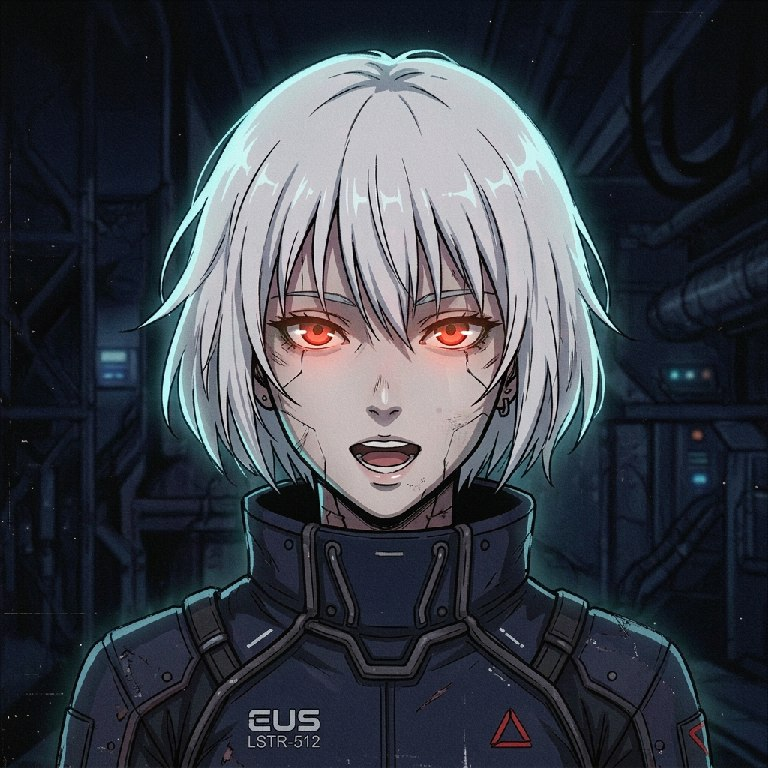
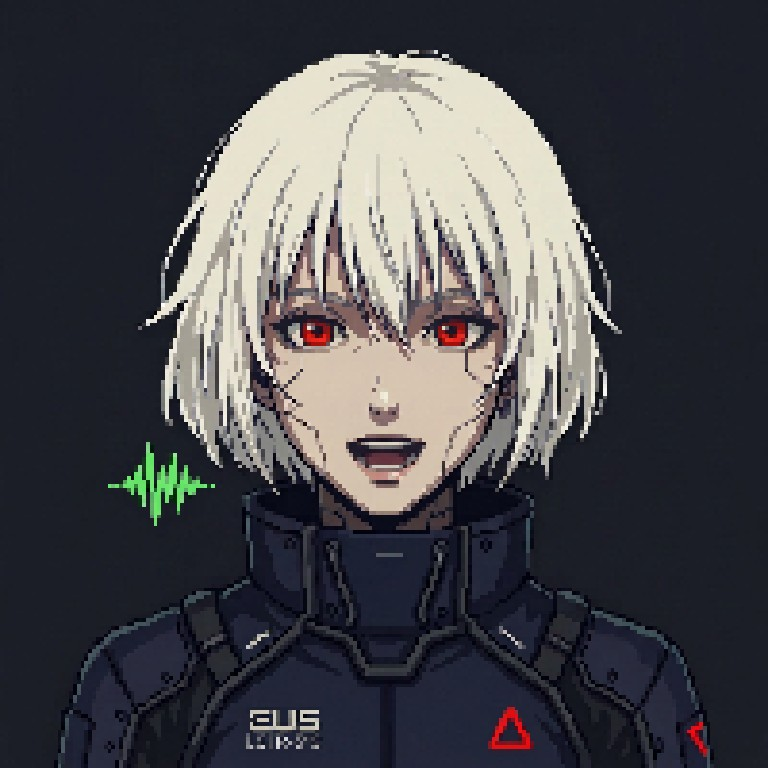
Пиксель-арт аватар в стиле SIGNALIS + статичный кадр без дёрганья; Command Center упрощён: 5 вкладок, настройки без воды

diff --git a/aura/gui.py b/aura/gui.py
@@ -445,24 +445,18 @@ class MainWindow(QMainWindow):
         self.tabs = QTabWidget()
         body.addWidget(self.tabs, 1)
         self.tab_chat = QWidget()
-        self.tab_activity = QWidget()
         self.tab_cmds = QWidget()
         self.tab_profiles = QWidget()
-        self.tab_memory = QWidget()
         self.tab_perms = QWidget()
         self.tab_settings = QWidget()
-        self.tabs.addTab(self.tab_chat, "Диалог")
-        self.tabs.addTab(self.tab_activity, "Активность")
-        self.tabs.addTab(self.tab_cmds, "Команды")
-        self.tabs.addTab(self.tab_profiles, "Режимы")
-        self.tabs.addTab(self.tab_memory, "Память")
-        self.tabs.addTab(self.tab_perms, "Разрешения")
-        self.tabs.addTab(self.tab_settings, "Настройки")
+        for label, widget in (("💬 Диалог", self.tab_chat), ("⚡ Команды", self.tab_cmds),
+                              ("🎮 Режимы", self.tab_profiles),
+                              ("🛡 Разрешения", self.tab_perms),
+                              ("⚙ Настройки", self.tab_settings)):
+            self.tabs.addTab(widget, label)
         self._build_chat(self.tab_chat)
-        self._build_activity(self.tab_activity)
         self._build_commands(self.tab_cmds)
         self._build_profiles(self.tab_profiles)
-        self._build_memory(self.tab_memory)
         self._build_perms(self.tab_perms)
         self._build_settings(self.tab_settings)
 
@@ -488,10 +482,25 @@ class MainWindow(QMainWindow):
     # вкладки
     # ==================================================================
     def _build_chat(self, tab):
-        lay = QVBoxLayout(tab)
+        split = QHBoxLayout(tab)
+        split.setContentsMargins(0, 0, 0, 0)
         self.chat = QTextBrowser()
         self.chat.setOpenExternalLinks(True)
-        lay.addWidget(self.chat, 1)
+        split.addWidget(self.chat, 3)
+        right = QVBoxLayout()
+        cap = QLabel("Активность")
+        cap.setObjectName("dim")
+        right.addWidget(cap)
+        self.activity_tree = QTreeWidget()
+        self.activity_tree.setHeaderLabels(["Время", "Действие"])
+        self.activity_tree.header().setSectionResizeMode(1, QHeaderView.Stretch)
+        self.activity_tree.setRootIsDecorated(False)
+        self.activity_tree.setMaximumWidth(280)
+        right.addWidget(self.activity_tree, 1)
+        undo = QPushButton("⏪ Отменить последнее")
+        undo.clicked.connect(lambda: self.brain.undo_last_async())
+        right.addWidget(undo)
+        split.addLayout(right)
         self._chat_line("system", "AURA запущена. Готова к работе.")
 
     def _chat_line(self, level, msg):
@@ -502,29 +511,6 @@ class MainWindow(QMainWindow):
             f"<span style='color:{FG_DIM};font-size:8pt'>"
             f"{icons.get(level, '•')} </span>"
             f"<span style='color:{colors.get(level, FG_DIM)}'>{safe}</span>")
-
-    def _build_activity(self, tab):
-        lay = QVBoxLayout(tab)
-        self.activity_tree = QTreeWidget()
-        self.activity_tree.setHeaderLabels(["Время", "Действие", "↶"])
-        self.activity_tree.header().setSectionResizeMode(1, QHeaderView.Stretch)
-        self.activity_tree.setRootIsDecorated(False)
-        lay.addWidget(self.activity_tree, 1)
-        row = QHBoxLayout()
-        undo = QPushButton("⏪ Отменить последнее")
-        undo.setObjectName("accent")
-        undo.clicked.connect(lambda: self.brain.undo_last_async())
-        clear = QPushButton("Очистить журнал")
-        clear.setObjectName("danger")
-        clear.clicked.connect(self._clear_activity)
-        row.addWidget(undo)
-        row.addWidget(clear)
-        row.addStretch(1)
-        lay.addLayout(row)
-
-    def _clear_activity(self):
-        self.brain.activity.clear()
-        self.activity_tree.clear()
 
     def _build_commands(self, tab):
         lay = QGridLayout(tab)
@@ -758,59 +744,6 @@ class MainWindow(QMainWindow):
             self.brain.handle(f"режим {name}", "text")
 
     # ------------------- память -------------------
-    def _build_memory(self, tab):
-        lay = QGridLayout(tab)
-        left = QVBoxLayout()
-        lbl = QLabel("Предпочтения (AURA учитывает их в разговоре)")
-        lbl.setObjectName("dim")
-        left.addWidget(lbl)
-        self.prefs_table = QTableWidget(0, 2)
-        self.prefs_table.setHorizontalHeaderLabels(["Ключ", "Значение"])
-        self.prefs_table.horizontalHeader().setSectionResizeMode(1, QHeaderView.Stretch)
-        left.addWidget(self.prefs_table, 1)
-        add_pref = QPushButton("＋ Добавить строку")
-        add_pref.clicked.connect(lambda: self.prefs_table.insertRow(
-            self.prefs_table.rowCount()))
-        left.addWidget(add_pref)
-        lay.addLayout(left, 0, 0)
-        right = QVBoxLayout()
-        lbl2 = QLabel("Факты (по одному в строке)")
-        lbl2.setObjectName("dim")
-        right.addWidget(lbl2)
-        self.facts_edit = QPlainTextEdit()
-        right.addWidget(self.facts_edit, 1)
-        save = QPushButton("💾 Сохранить память")
-        save.setObjectName("accent")
-        save.clicked.connect(self._memory_save)
-        right.addWidget(save)
-        lay.addLayout(right, 0, 1)
-        lay.setColumnStretch(1, 2)
-        self._memory_fill()
-
-    def _memory_fill(self):
-        mem = self.brain.memory
-        self.prefs_table.setRowCount(0)
-        for k, v in sorted(mem.prefs.items()):
-            r = self.prefs_table.rowCount()
-            self.prefs_table.insertRow(r)
-            self.prefs_table.setItem(r, 0, QTableWidgetItem(k))
-            self.prefs_table.setItem(r, 1, QTableWidgetItem(v))
-        self.facts_edit.setPlainText("\n".join(mem.facts))
-
-    def _memory_save(self):
-        mem = self.brain.memory
-        prefs = {}
-        for r in range(self.prefs_table.rowCount()):
-            k = self.prefs_table.item(r, 0)
-            v = self.prefs_table.item(r, 1)
-            if k and v and k.text().strip():
-                prefs[k.text().strip().lower()] = v.text().strip()
-        mem.prefs = prefs
-        mem.facts = [x.strip() for x in self.facts_edit.toPlainText().splitlines()
-                     if x.strip()]
-        mem.save()
-        self._chat_line("system", "Память сохранена.")
-
     # ------------------- разрешения -------------------
     def _build_perms(self, tab):
         from .permissions import CATEGORIES, LEVEL_TITLES
@@ -881,14 +814,15 @@ class MainWindow(QMainWindow):
         form.setSpacing(6)
         self.set_vars = {}
 
-        def group(title):
+        def group(title, checkable=False, checked=True):
             g = QGroupBox(title)
+            g.setCheckable(checkable)
+            g.setChecked(checked)
             gl = QFormLayout(g)
-            gl.setLabelAlignment(Qt.AlignLeft)
             form.addWidget(g)
             return gl
 
-        def add_str(g, title, key, password=False, width=280):
+        def add_str(g, title, key, password=False, width=300):
             e = QLineEdit(str(c.get(key, "") or ""))
             if password:
                 e.setEchoMode(QLineEdit.Password)
@@ -926,15 +860,15 @@ class MainWindow(QMainWindow):
             g.addRow(title, row)
             self.set_vars[key] = slider
 
-        # --- персона ---
+        # --- Персона ---
         g1 = group("👤 Персона")
         add_str(g1, "Как меня называть", "user_name", width=160)
         add_str(g1, "Город для погоды", "city", width=160)
         add_combo(g1, "Характер речи", "personality",
-                  ["professional", "friendly", "jarvis", "anime"])
-        add_slider(g1, "Засыпать после (мин)", "sleep_after_min", 1, 60)
+                  ["friendly", "professional", "jarvis", "anime"])
+        add_slider(g1, "Засыпать после (минут тишины)", "sleep_after_min", 1, 60)
 
-        # --- голос ---
+        # --- Голос ---
         g2 = group("🗣 Голос")
         add_bool(g2, "Озвучивать ответы", "tts_enabled")
         add_slider(g2, "Скорость речи", "tts_rate", 100, 260)
@@ -954,33 +888,51 @@ class MainWindow(QMainWindow):
             "Привет! Я Аврора. Проверка голоса завершена."))
         g2.addRow(test)
 
-        # --- слух ---
-        g3 = group("👂 Слух")
+        # --- Голосовое управление ---
+        g3 = group("👂 Голосовое управление")
         add_str(g3, "Кодовое слово", "wake_word", width=140)
-        add_bool(g3, "Требовать кодовое слово", "require_wake_word")
-        add_combo(g3, "Язык распознавания", "language",
-                  ["ru-RU", "en-US", "uk-UA", "de-DE", "fr-FR", "es-ES"])
-        add_combo(g3, "Движок распознавания", "stt_engine", ["google", "vosk"])
-        add_str(g3, "Путь к модели Vosk", "vosk_model_path", width=340)
-        add_bool(g3, "Глобальная клавиша Ctrl+Space (говорить)", "hotkey_enabled")
+        add_bool(g3, "Требовать кодовое слово перед командой", "require_wake_word")
+        add_bool(g3, "Клавиша Ctrl+Space — говорить из любого места", "hotkey_enabled")
+        mic_hint = QLabel("Микрофон включается кнопкой 🎙 в шапке окна.")
+        mic_hint.setObjectName("dim")
+        g3.addRow(mic_hint)
 
-        # --- ИИ ---
-        g4 = group("🤖 Нейросеть (OpenAI-совместимый API)")
-        add_bool(g4, "Отвечать через ИИ, если команда не распознана", "ai_enabled")
+        # --- Нейросеть ---
+        g4 = group("🤖 Нейросеть")
+        add_bool(g4, "Включить ИИ (отвечает, когда не поняла команду)", "ai_enabled")
         add_str(g4, "Base URL", "ai_base_url", width=340)
         add_str(g4, "API-ключ", "ai_api_key", password=True, width=340)
         add_str(g4, "Модель", "ai_model", width=200)
-        add_bool(g4, "Разрешить ИИ выполнять действия на ПК", "ai_allow_actions")
-        add_bool(g4, "Зрение: анализ скриншотов", "vision_enabled")
-        add_str(g4, "Vision-модель (пусто = основная)", "vision_model", width=200)
-        test_ai = QPushButton("📡 Проверить связь с ИИ")
+        add_bool(g4, "ИИ может выполнять действия на ПК", "ai_allow_actions")
+        add_bool(g4, "Зрение: анализ экрана по запросу", "vision_enabled")
+        test_ai = QPushButton("📡 Проверить связь")
         test_ai.clicked.connect(self._test_ai)
         g4.addRow(test_ai)
 
-        # --- прочее ---
-        g5 = group("🧩 Прочее")
-        add_str(g5, "Ссылка «включи музыку»", "music_url", width=340)
-        add_str(g5, "Папка для скриншотов", "screenshots_dir", width=340)
+        # --- Память ---
+        g5 = group("🧠 Память")
+        mem_hint = QLabel("Скажите «запомни: …» — или впишите факты тут, по одному в строке.")
+        mem_hint.setObjectName("dim")
+        g5.addRow(mem_hint)
+        self.facts_edit = QPlainTextEdit()
+        self.facts_edit.setMaximumHeight(90)
+        self.facts_edit.setPlainText("\n".join(self.brain.memory.facts))
+        g5.addRow(self.facts_edit)
+
+        # --- Продвинутые (свёрнуты по умолчанию) ---
+        g6 = group("🔧 Продвинутые настройки (редко нужны)", checkable=True, checked=False)
+        add_combo(g6, "Язык распознавания", "language",
+                  ["ru-RU", "en-US", "uk-UA", "de-DE", "fr-FR", "es-ES"])
+        add_combo(g6, "Движок распознавания", "stt_engine", ["google", "vosk"])
+        add_str(g6, "Путь к модели Vosk (офлайн)", "vosk_model_path", width=340)
+        add_str(g6, "Vision-модель (пусто = основная)", "vision_model", width=200)
+        add_str(g6, "Ссылка «включи музыку»", "music_url", width=340)
+        add_str(g6, "Папка для скриншотов", "screenshots_dir", width=340)
+        add_bool(g6, "Подтверждать выключение ПК", "confirm_power")
+        self.projects_folder_edit = QLineEdit(
+            str(self.brain.memory.get_pref("projects_folder", "")))
+        self.projects_folder_edit.setFixedWidth(340)
+        g6.addRow("Папка проектов", self.projects_folder_edit)
 
         save = QPushButton("💾 СОХРАНИТЬ НАСТРОЙКИ")
         save.setObjectName("accent")
@@ -1086,9 +1038,16 @@ class MainWindow(QMainWindow):
                 c.set(key, w.text().strip())
         idx = self.voice_combo.currentIndex()
         c.set("tts_voice_id", self.voice_ids[idx] if idx >= 0 else "")
+        if getattr(self, "projects_folder_edit", None) is not None:
+            self.brain.memory.set_pref("projects_folder",
+                                       self.projects_folder_edit.text().strip())
 
     def _save_settings(self):
         self._apply_settings()
+        self.brain.memory.facts = [x.strip()
+                                   for x in self.facts_edit.toPlainText().splitlines()
+                                   if x.strip()]
+        self.brain.memory.save()
         self.config_obj.save()
         self._chat_line("system", "Настройки сохранены ✓")
 

diff --git a/aura/face_avatar.py b/aura/face_avatar.py
@@ -137,19 +137,13 @@ class FaceImageWidget(QWidget):
             self._state = self._resume or "idle"
 
         # кроссфейд
-        self._fade = min(1.0, self._fade + 0.09)
+        self._fade = min(1.0, self._fade + 0.25)
 
         p.fillRect(0, 0, w, h, QColor("#0a0f1c"))
 
-        # --- «дыхание» камеры ---
-        breath = 1.014 + 0.014 * math.sin(t * 1.05)
-        dy = 0.0
-        if state == "speaking":
-            dy = 3.0 * math.sin(t * 7.3) + 1.6 * math.sin(t * 11.7)
-        elif state == "listening":
-            dy = 1.2 * math.sin(t * 2.2)
-        elif state == "sleep":
-            dy = 2.0 * math.sin(t * 0.8)
+        # --- статичный кадр: никаких зумов и покачиваний (пиксель-арт) ---
+        breath = 1.0
+        dy = 0
 
         base = self._pixmaps.get("error" if state == "alert" else state)
         prev = self._pixmaps.get(self._prev_state)
@@ -159,10 +153,12 @@ class FaceImageWidget(QWidget):
                 return
             pw, ph = pix.width(), pix.height()
             scale = max(w / pw, h / ph) * breath
-            dw, dh = pw * scale, ph * scale
-            dx = (w - dw) / 2
-            dyy = (h - dh) / 2 + dy
+            dw, dh = int(pw * scale), int(ph * scale)
+            dx = int((w - dw) / 2)
+            dyy = int((h - dh) / 2) + dy
             p.setOpacity(opacity)
+            # FastTransformation сохраняет чёткие пиксели
+            p.setRenderHint(QPainter.SmoothPixmapTransform, False)
             p.drawPixmap(QRectF(dx, dyy, dw, dh).toRect(), pix)
 
         # уходящее состояние (при кроссфейде)
@@ -186,7 +182,8 @@ class FaceImageWidget(QWidget):
         elif state == "speaking":
             self._draw_wave(p, w, h, t, (60, 255, 190))
         elif state in ("error", "alert"):
-            self._draw_glitch(p, w, h, t)
+            if (t * 2) % 8 < 1.2:          # короткая вспышка раз в ~4 сек
+                self._draw_glitch(p, w, h, t)
         elif state == "thinking":
             self._draw_orbit(p, w, h, t)
         elif state == "sleep":
@@ -197,16 +194,16 @@ class FaceImageWidget(QWidget):
 
     # ------------------------------------------------------------------
     def _draw_wave(self, p: QPainter, w, h, t, rgb):
-        bars, span = 26, min(w * 0.78, 300)
+        bars, span = 22, min(w * 0.72, 260)
         x0 = (w - span) / 2
-        base_y = h - 14
+        base_y = h - 12
         p.setPen(Qt.NoPen)
         for i in range(bars):
             x = x0 + span * i / (bars - 1)
-            amp = (math.sin(t * 6 + i * 0.9) * 0.5 + 0.5) * \
-                  (math.sin(t * 2.3 + i * 0.37) * 0.5 + 0.5)
-            bh = 3 + amp * 13
-            p.setBrush(QColor(*rgb, 130))
+            amp = (math.sin(t * 3.2 + i * 0.9) * 0.5 + 0.5) * \
+                  (math.sin(t * 1.3 + i * 0.37) * 0.5 + 0.5)
+            bh = 3 + amp * 8
+            p.setBrush(QColor(*rgb, 110))
             p.drawRoundedRect(QRectF(x - 1.5, base_y - bh / 2, 3, bh), 1.5, 1.5)
 
     def _draw_glitch(self, p: QPainter, w, h, t):
@@ -260,8 +257,8 @@ class FaceImageWidget(QWidget):
             pm.fill(Qt.transparent)
             q = QPainter(pm)
             q.setPen(Qt.NoPen)
-            for y in range(0, h, 3):
-                q.setBrush(QColor(0, 0, 0, 14))
+            for y in range(0, h, 4):
+                q.setBrush(QColor(0, 0, 0, 10))
                 q.drawRect(0, y, w, 1)
             q.end()
             self._scanlines = pm

diff --git a/selftest.py b/selftest.py
@@ -263,9 +263,9 @@ def check_gui():
                     win.face._tick()
                     app.processEvents()
             win.face.set_state("idle")
-            ok = (win.tabs.count() == 7 and win.cmd_list is not None
+            ok = (win.tabs.count() == 5 and win.cmd_list is not None
                   and win.perm_combos)
-            report("Окно Command Center строится (7 вкладок)", ok)
+            report("Окно Command Center строится (5 вкладок)", ok)
             # сохраняем скриншот для документации
             shots_dir = os.path.join(os.path.dirname(os.path.abspath(__file__)),
                                      "docs")
